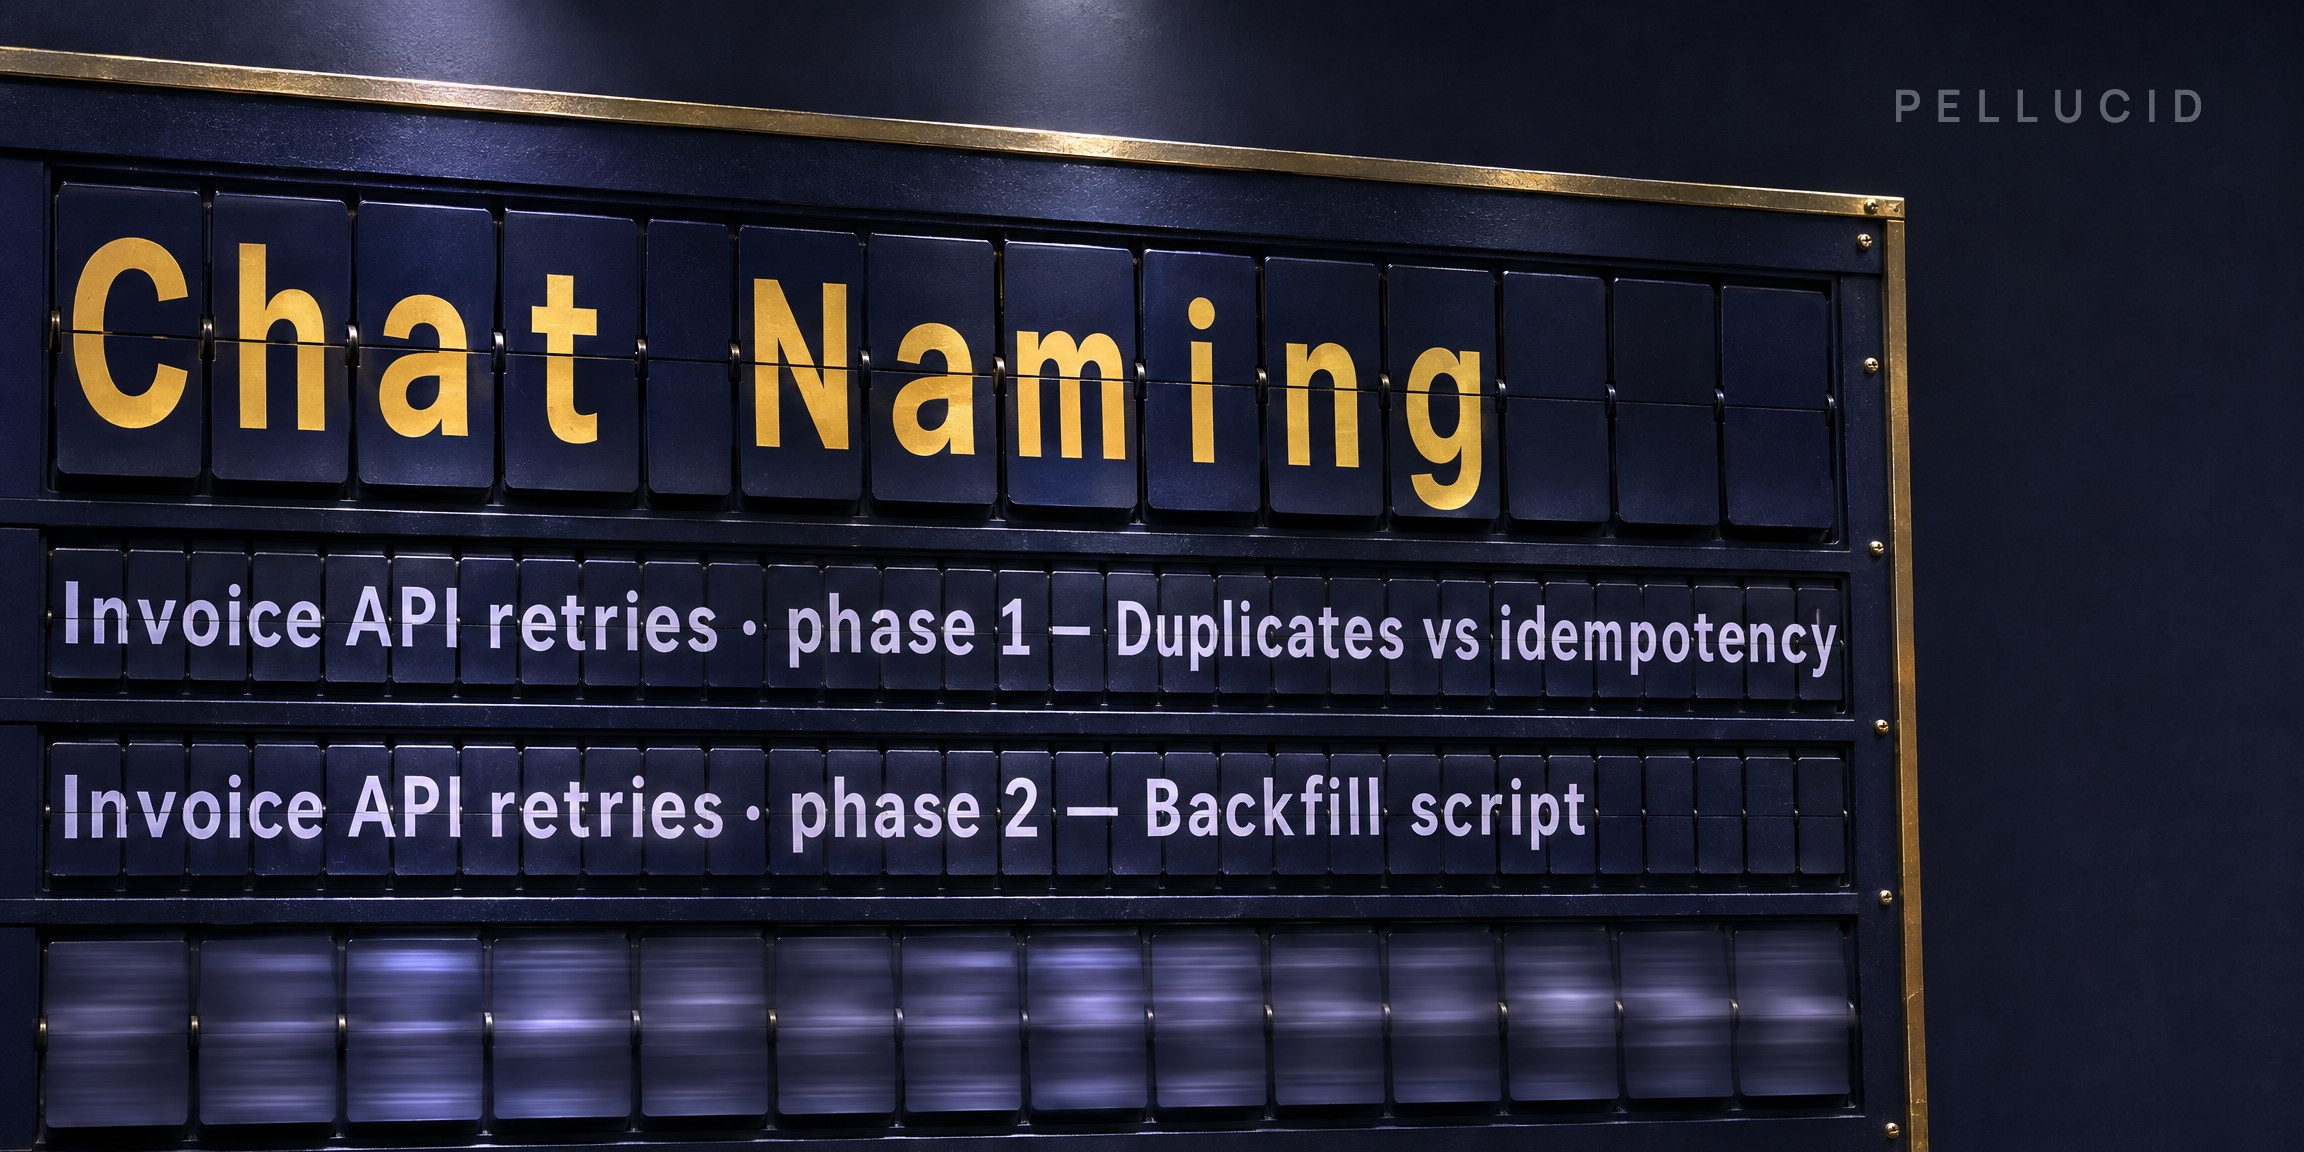
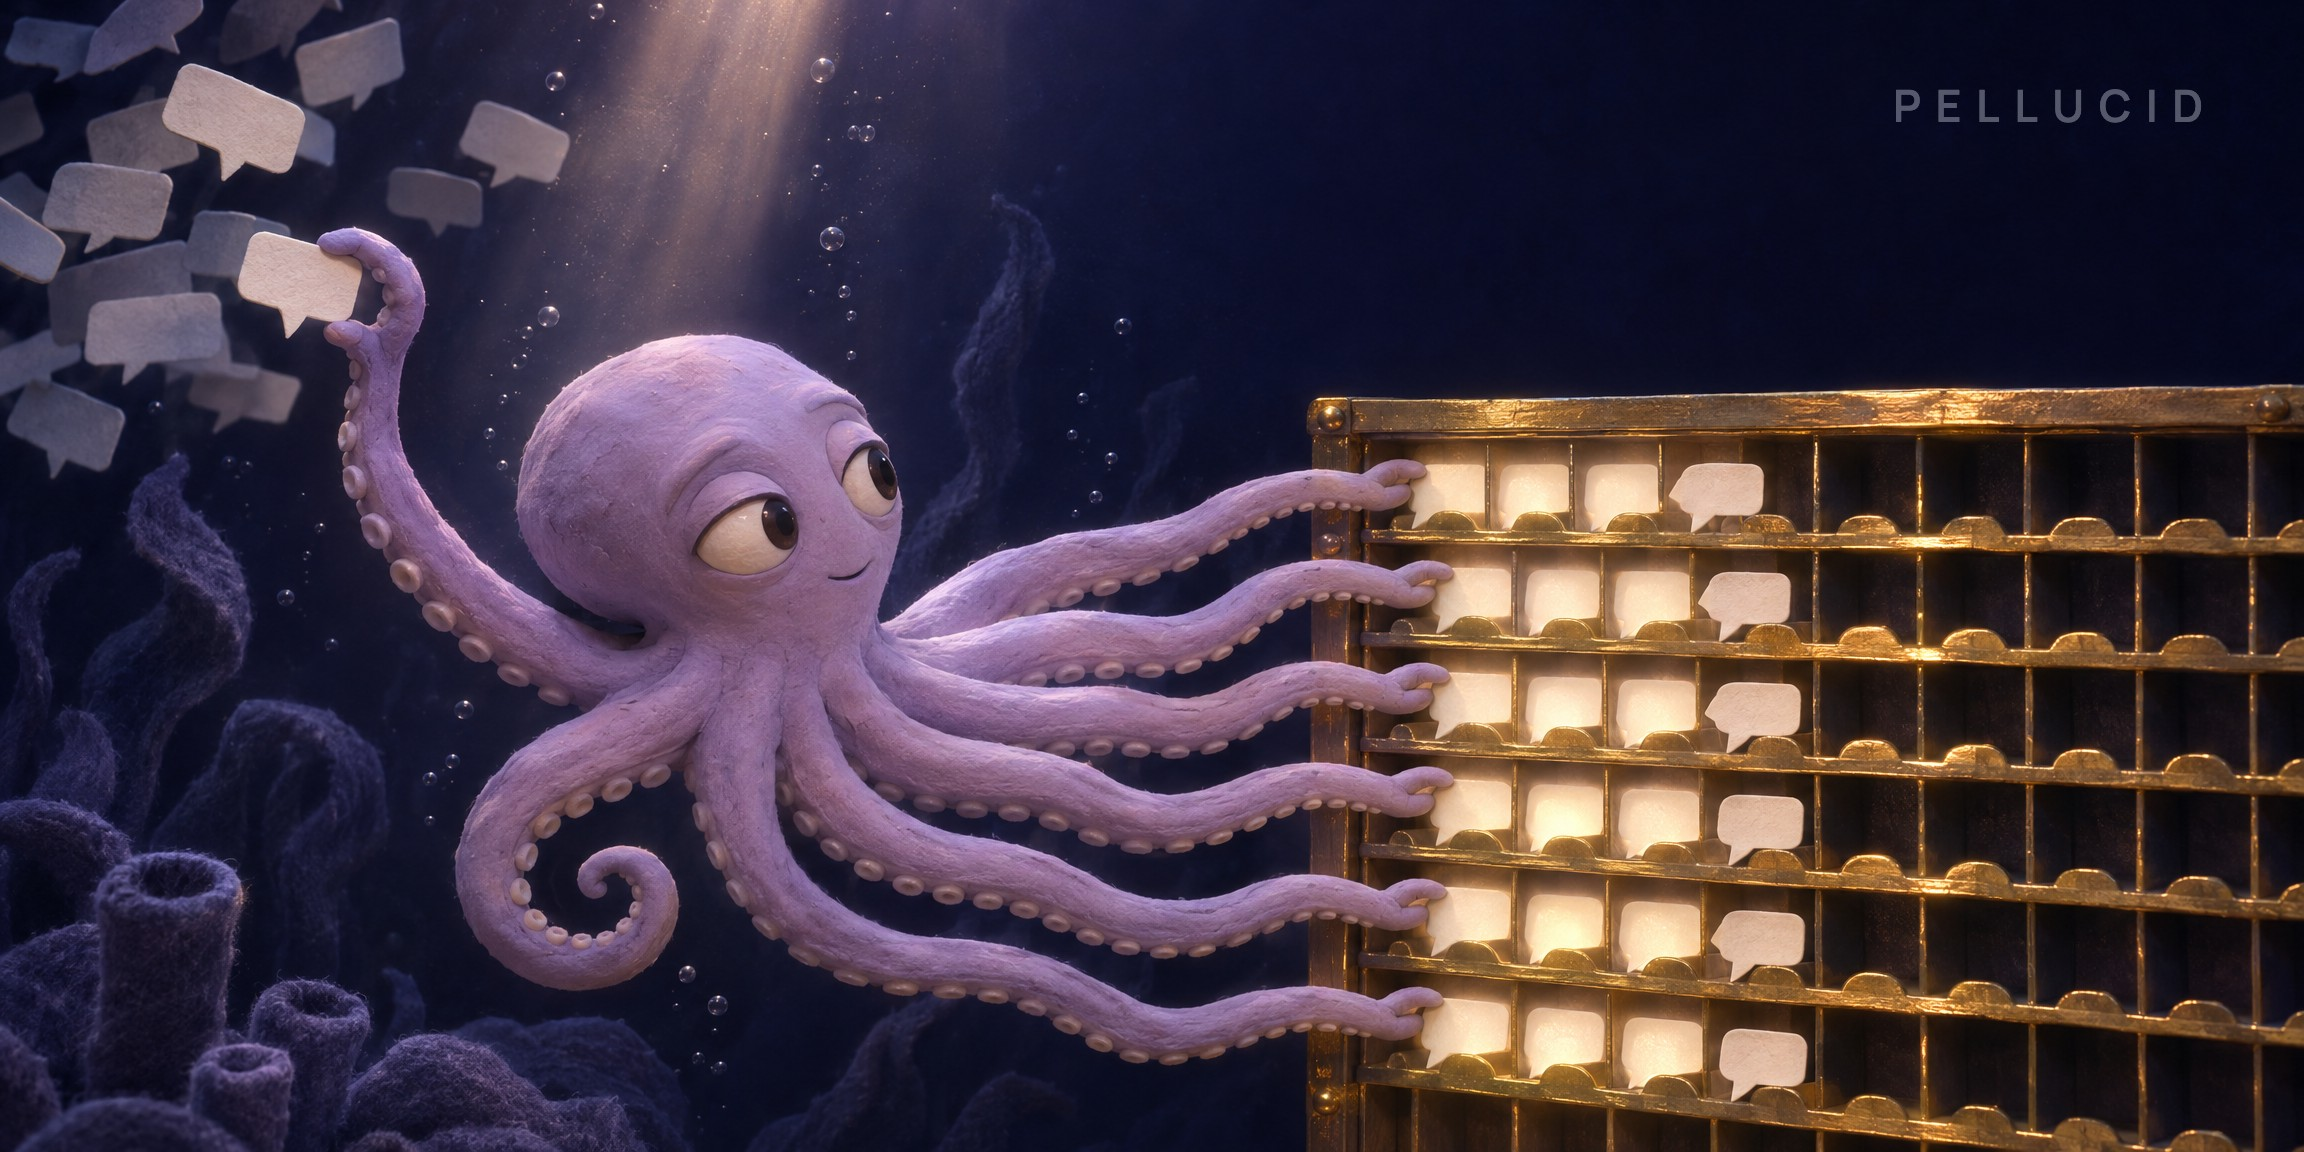
README cover: an octopus files chats into named rows
A felt octopus takes loose speech-bubble cards from a drift and files
them, one per arm, into rows of brass pigeonholes that light up in
order. Replaces the split-flap board.

diff --git a/README.md b/README.md
@@ -1,4 +1,4 @@
-<p align="center"><img src="assets/cover.jpg" alt="A split-flap board shows Chat Naming in gold above two chat titles: Invoice API retries · phase 1 — Duplicates vs idempotency, and phase 2 — Backfill script"></p>
+<p align="center"><img src="assets/cover.jpg" alt="A felt octopus in an underwater archive files loose speech-bubble cards, one per arm, into glowing rows of brass pigeonholes"></p>
 
 # Chat Naming
 
